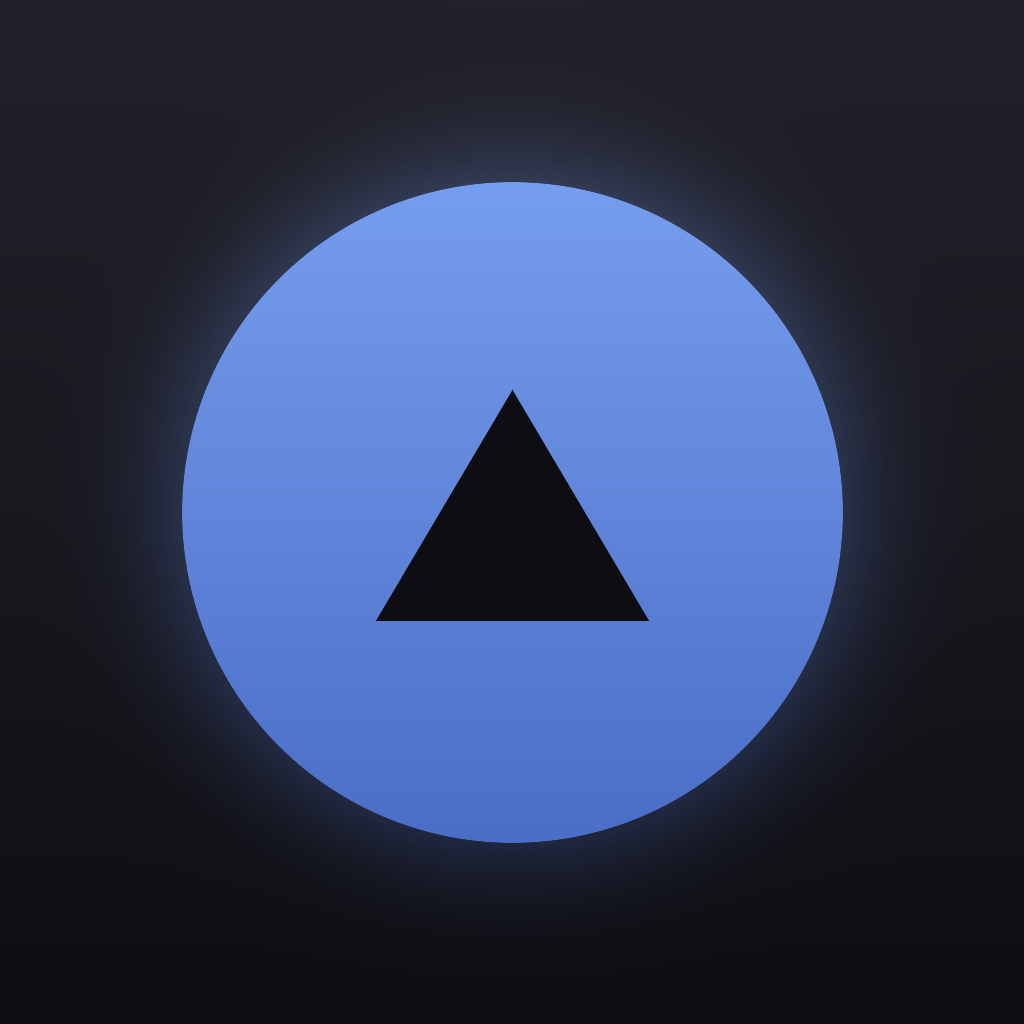
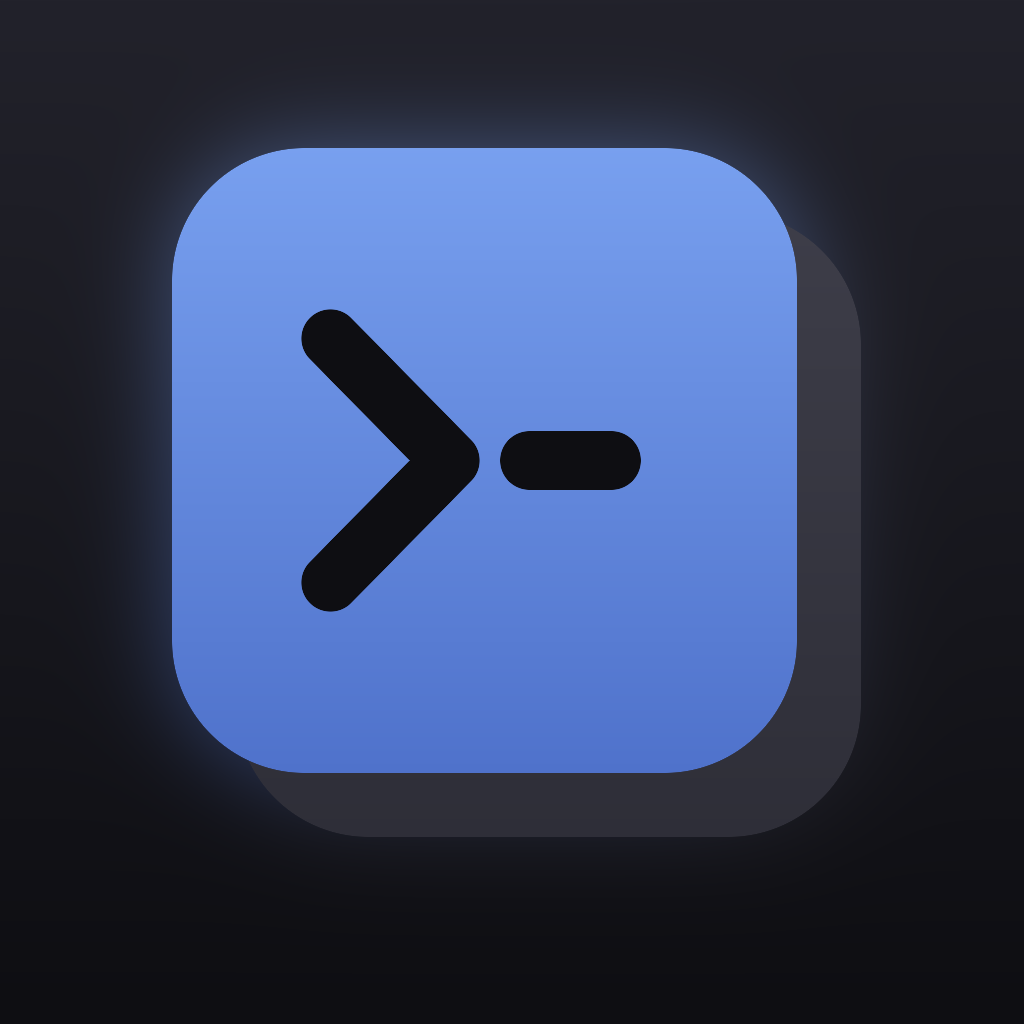
fix(app): black screen on launch — never gate first paint on a native call
The app opened to a blank black page. Cause was my own change in the previous
commit: bootstrap awaited the Keychain hydration before calling
createRoot().render(). If that promise never settles — plugin not answering, or
a keychain read stalled — React never mounts, and all that is left on screen is
`body`'s background, which is the dark canvas. Hence: black, and nothing to act
on.

Rendering now happens first and the Keychain is consulted afterwards. When the
background read turns out to hold credentials the first paint could not see, the
app reloads once so it still starts paired instead of showing the pairing
screen; it cannot loop, since the next pass finds the values already in web
storage and restores nothing.

Also a watchdog: if nothing has mounted after six seconds it writes a readable
message into #root. The existing handler only caught thrown errors, so a *hung*
start was silent — the exact failure mode that just cost a round trip.

New logo, one design in three places:

- The mark is now two stacked cards — the "deck" — with a terminal prompt
  (chevron + cursor) knocked out of the top one. The old disc-with-triangle read
  as a media player; this reads as the product.
- `resources/generate-icons.sh` rebuilds the app icon and launch images from
  that geometry (ImageMagick, no new dependencies), and
  `src/components/BrandMark.tsx` renders the same proportions in-app, so the
  home-screen icon, the splash and the UI mark are one thing rather than three
[…]

diff --git a/dashboard/src/main.tsx b/dashboard/src/main.tsx
@@ -23,20 +23,39 @@ window.addEventListener('error', (errorEvent) => {
   root.textContent = `Startup error: ${errorEvent.message}\n\n${errorEvent.error?.stack ?? ''}`
 })
 
+// Same reason, for a start that hangs instead of throwing: the page would sit on
+// `body`'s background — a black screen with nothing to act on. The timer is
+// cleared the moment React mounts.
+const watchdog = window.setTimeout(() => {
+  if (root.childElementCount > 0) return
+  root.textContent =
+    'AgentDeck could not start. Close and reopen the app. If it keeps happening, re-pair this device.'
+}, 6000)
+
 registerSW()
 
 /**
- * Restore Keychain credentials before the first render, so a paired device
- * never flashes the pairing screen on launch. In the browser (and on a first
- * launch) this resolves immediately.
+ * Mount first, restore credentials after.
+ *
+ * Rendering must not wait on a native call: the Keychain read can stall (device
+ * locked at launch, plugin not answering), and an unrendered page is a black
+ * screen with no way out. So the app paints immediately from web storage, and
+ * the Keychain is consulted in the background.
+ *
+ * If that background read turns out to hold credentials the first paint could
+ * not see, the app reloads once so it starts paired instead of showing the
+ * pairing screen. It cannot loop: the next pass finds the values already in web
+ * storage and restores nothing.
  */
-async function bootstrap(): Promise<void> {
-  await hydrateCredentials().catch(() => {})
-  ReactDOM.createRoot(root).render(
-    <React.StrictMode>
-      <App />
-    </React.StrictMode>,
-  )
-}
+ReactDOM.createRoot(root).render(
+  <React.StrictMode>
+    <App />
+  </React.StrictMode>,
+)
+window.clearTimeout(watchdog)
 
-void bootstrap()
+void hydrateCredentials()
+  .then((restored) => {
+    if (restored) window.location.reload()
+  })
+  .catch(() => {})

diff --git a/dashboard/src/components/BrandMark.tsx b/dashboard/src/components/BrandMark.tsx
@@ -1,0 +1,55 @@
+/**
+ * BrandMark — the app's logo, as the same geometry the icon uses.
+ *
+ * Two stacked cards (the "deck") with a terminal prompt knocked out of the top
+ * one: the product is a deck of agent sessions driven from a command surface.
+ * The icon in `resources/icon.png` is generated from these same proportions
+ * (`resources/generate-icons.sh`), so the home-screen icon and the in-app mark
+ * stay one design.
+ *
+ * Colours are tokens, so it follows the theme: the accent ramp for the top card,
+ * the accent at low opacity for the one behind it, and the knockout in the
+ * surface colour so it reads as cut out of whatever card it sits on.
+ */
+
+export function BrandMark({ className }: { className?: string }) {
+  return (
+    <svg
+      viewBox="0 0 1024 1024"
+      className={className}
+      role="img"
+      aria-label="AgentDeck"
+      fill="none"
+    >
+      <defs>
+        <linearGradient id="brand-mark-card" x1="0" y1="0" x2="0" y2="1">
+          <stop offset="0%" stopColor="var(--accent-hover)" />
+          <stop offset="100%" stopColor="var(--accent-2, var(--accent))" />
+        </linearGradient>
+      </defs>
+
+      {/* Deck: the card behind peeks out down-right. */}
+      <rect
+        x="236"
+        y="212"
+        width="624"
+        height="624"
+        rx="132"
+        fill="var(--accent)"
+        opacity="0.22"
+      />
+      {/* Top card. */}
+      <rect x="172" y="148" width="624" height="624" rx="132" fill="url(#brand-mark-card)" />
+
+      {/* Prompt: chevron + cursor. */}
+      <path
+        d="M330 338 L450 460 L330 582"
+        stroke="var(--surface)"
+        strokeWidth="58"
+        strokeLinecap="round"
+        strokeLinejoin="round"
+      />
+      <rect x="500" y="431" width="140" height="58" rx="29" fill="var(--surface)" />
+    </svg>
+  )
+}

diff --git a/dashboard/src/lib/secureStore.ts b/dashboard/src/lib/secureStore.ts
@@ -41,23 +41,32 @@ async function store(): Promise<SecureStorageModule | null> {
  * Pull Keychain values into web storage when web storage has none.
  *
  * Only fills gaps: if web storage already holds a value it wins, so a user who
- * cleared the Keychain is not resurrected by a stale copy.
+ * cleared the Keychain is not resurrected by a stale copy. Resolves to whether
+ * anything was actually restored — callers use that to decide if a render that
+ * already happened needs to be redone.
+ *
+ * Never rejects, and callers must not block rendering on it: a Keychain read can
+ * stall (device locked at launch, plugin not answering), and a stalled promise
+ * awaiting before the first render is a black screen.
  */
-export async function hydrateCredentials(): Promise<void> {
-  if (!isNativeApp()) return
+export async function hydrateCredentials(): Promise<boolean> {
+  if (!isNativeApp()) return false
   const secure = await store()
-  if (!secure) return
+  if (!secure) return false
+  let restored = false
   for (const key of KEYS) {
     try {
       if (localStorage.getItem(key)) continue
       const value = await secure.get(key)
       if (typeof value === 'string' && value.length > 0) {
         localStorage.setItem(key, value)
+        restored = true
       }
     } catch {
       // Locked keychain or a first launch: nothing to restore.
     }
   }
+  return restored
 }
 
 /** Mirror the current web-storage credentials into the Keychain. */

diff --git a/dashboard/src/components/NativePairing.tsx b/dashboard/src/components/NativePairing.tsx
@@ -16,6 +16,7 @@
 import { useState } from 'react'
 import { PairingScreen } from './Pairing'
 import { QrScanner } from './QrScanner'
+import { BrandMark } from './BrandMark'
 import { haptic } from '@/lib/nativeUX'
 import { parsePairingLink, setDeviceBaseUrl } from '@/lib/native'
 
@@ -57,8 +58,8 @@ export function NativePairingGate({ onPaired }: { onPaired: () => void }) {
       style={{ paddingTop: 'env(safe-area-inset-top)', paddingBottom: 'env(safe-area-inset-bottom)' }}
     >
       <div className="flex flex-col items-center gap-2 text-center">
-        <span className="flex size-11 items-center justify-center rounded-card bg-surface font-mono text-[13px] font-semibold text-accent shadow-card">
-          AD
+        <span className="flex size-11 items-center justify-center rounded-card bg-surface shadow-card">
+          <BrandMark className="size-9" />
         </span>
         <h1 className="text-[17px] font-semibold text-ink">Pair with your desktop</h1>
         <p className="max-w-[34ch] text-[12.5px] leading-[1.6] text-ink-3">

diff --git a/dashboard/src/components/Pairing.tsx b/dashboard/src/components/Pairing.tsx
@@ -12,6 +12,7 @@
 
 import { useCallback, useEffect, useMemo, useState } from 'react'
 import { Button, Check, CopyButton, Dots, IconButton, Close } from './ui'
+import { BrandMark } from './BrandMark'
 import {
   ApiError,
   pairingApi,
@@ -649,7 +650,7 @@ export function PairingScreen({
           {state === 'paired' ? (
             <Check size={20} className="text-green" />
           ) : (
-            <span className="font-mono text-[15px] font-medium text-accent">AD</span>
+            <BrandMark className="size-9" />
           )}
         </span>
         <h1 className="text-[15px] font-medium text-ink">
